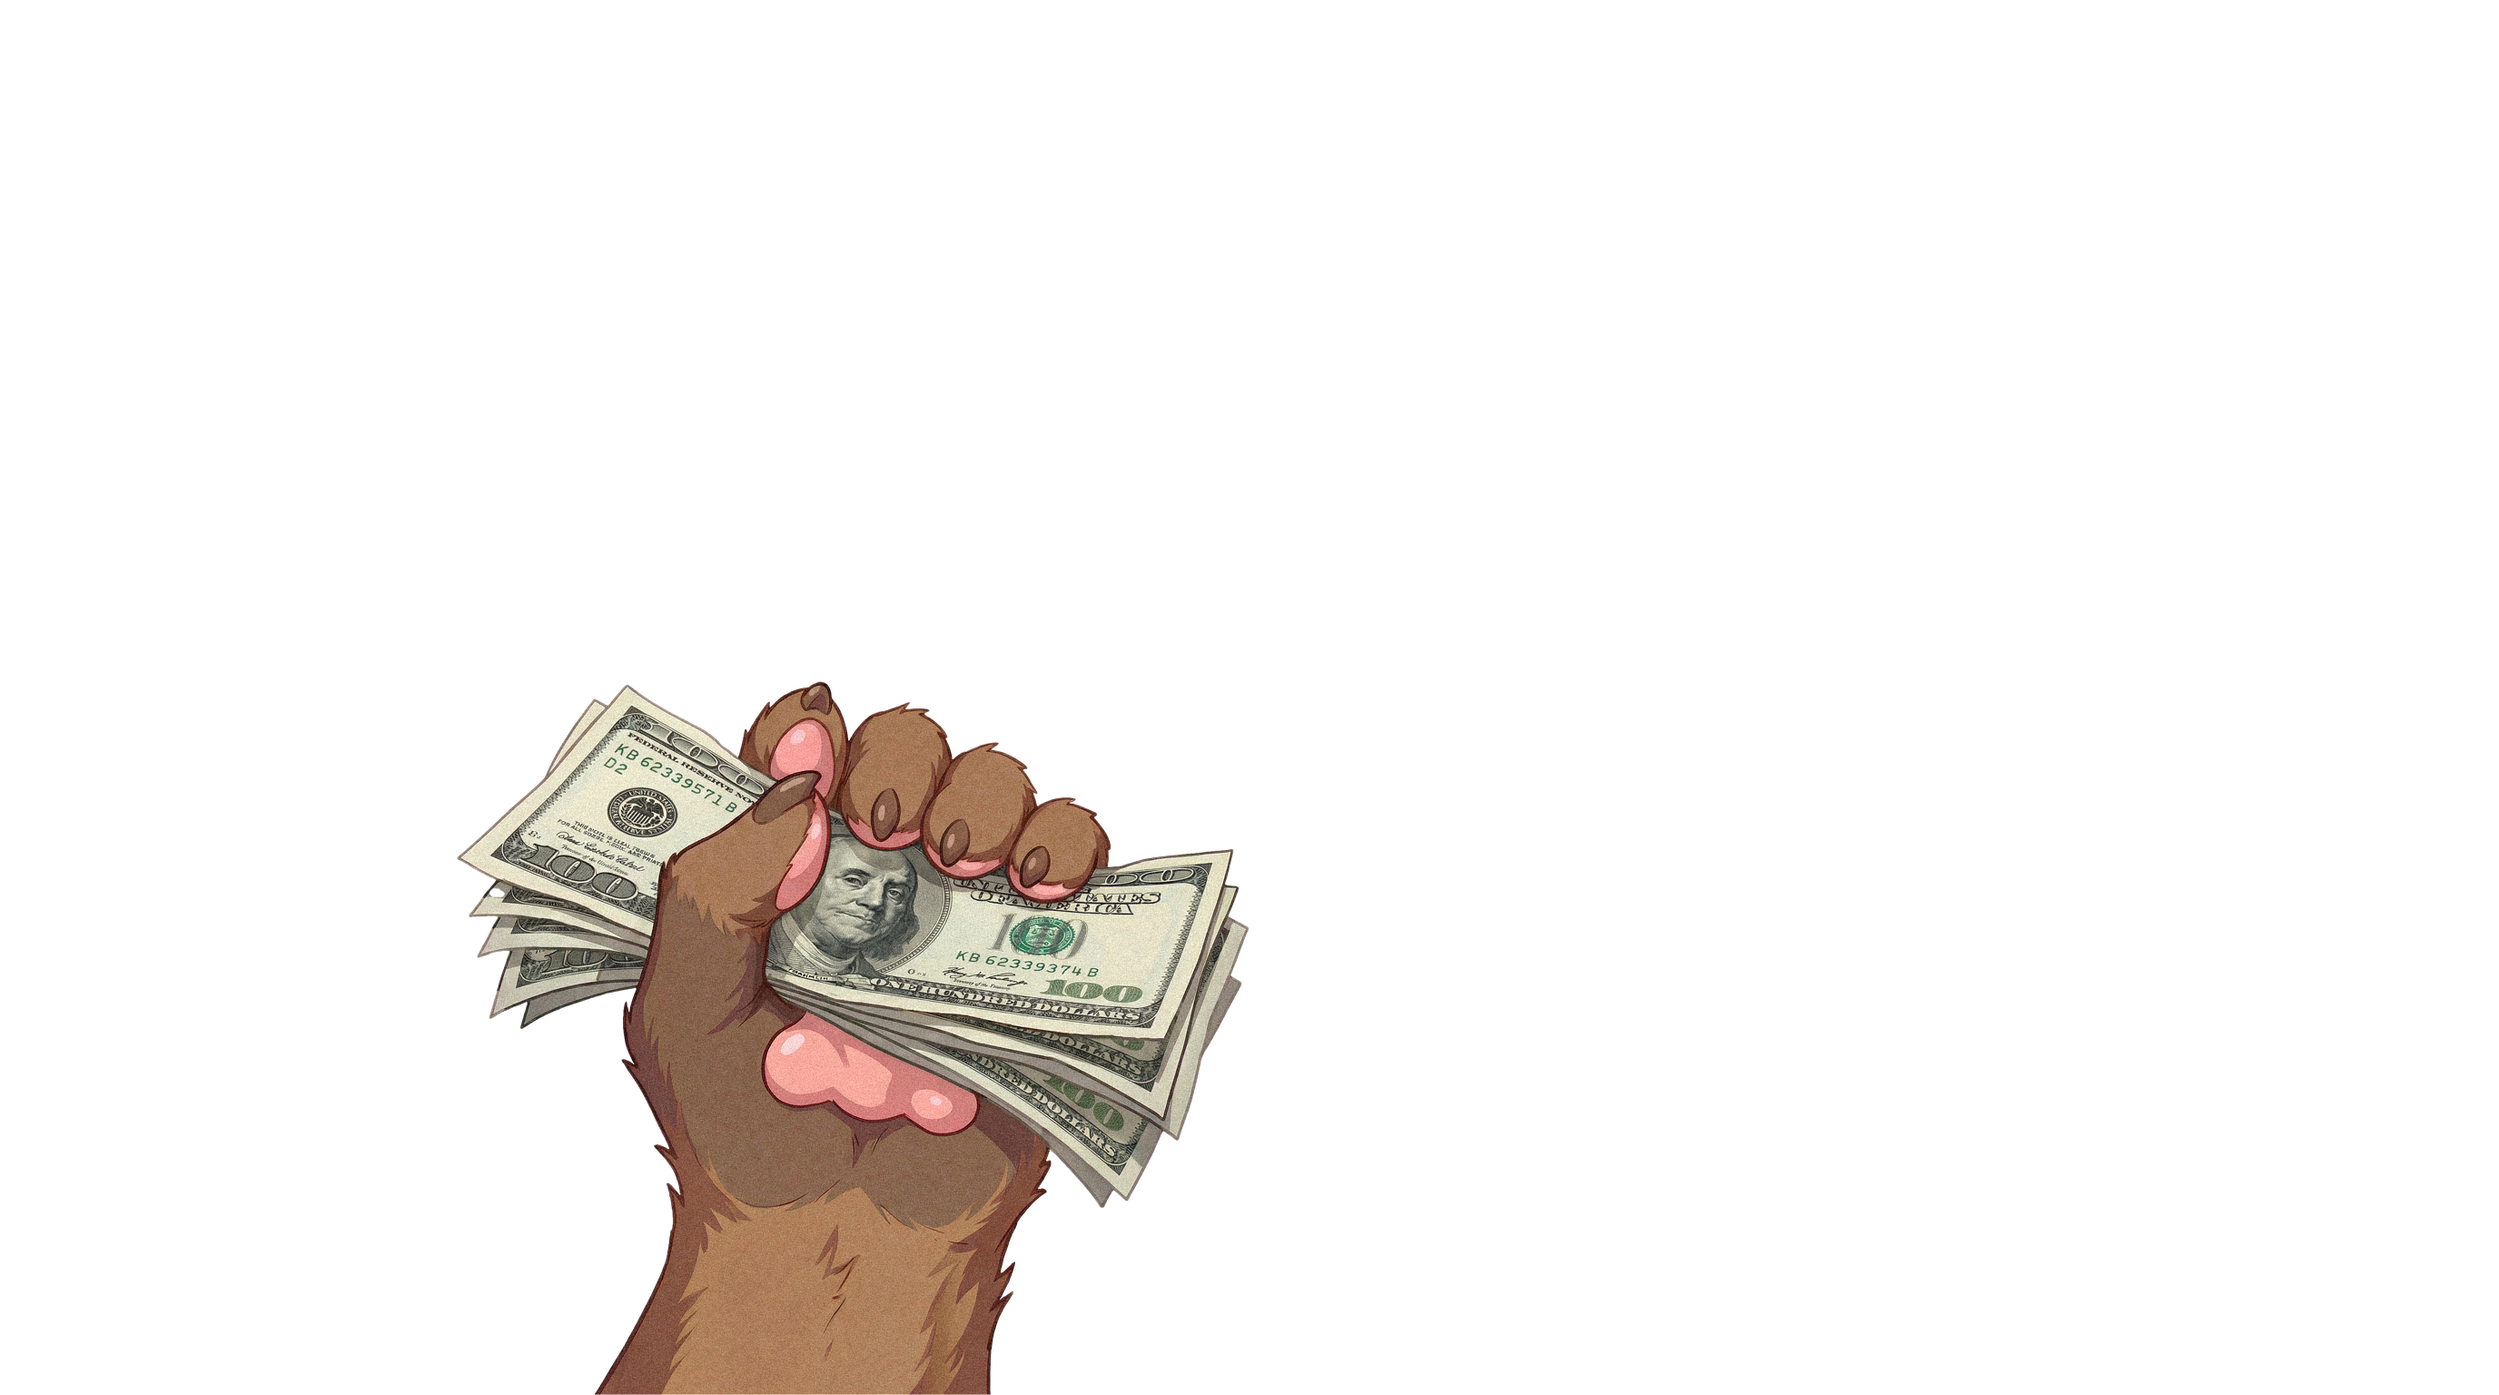
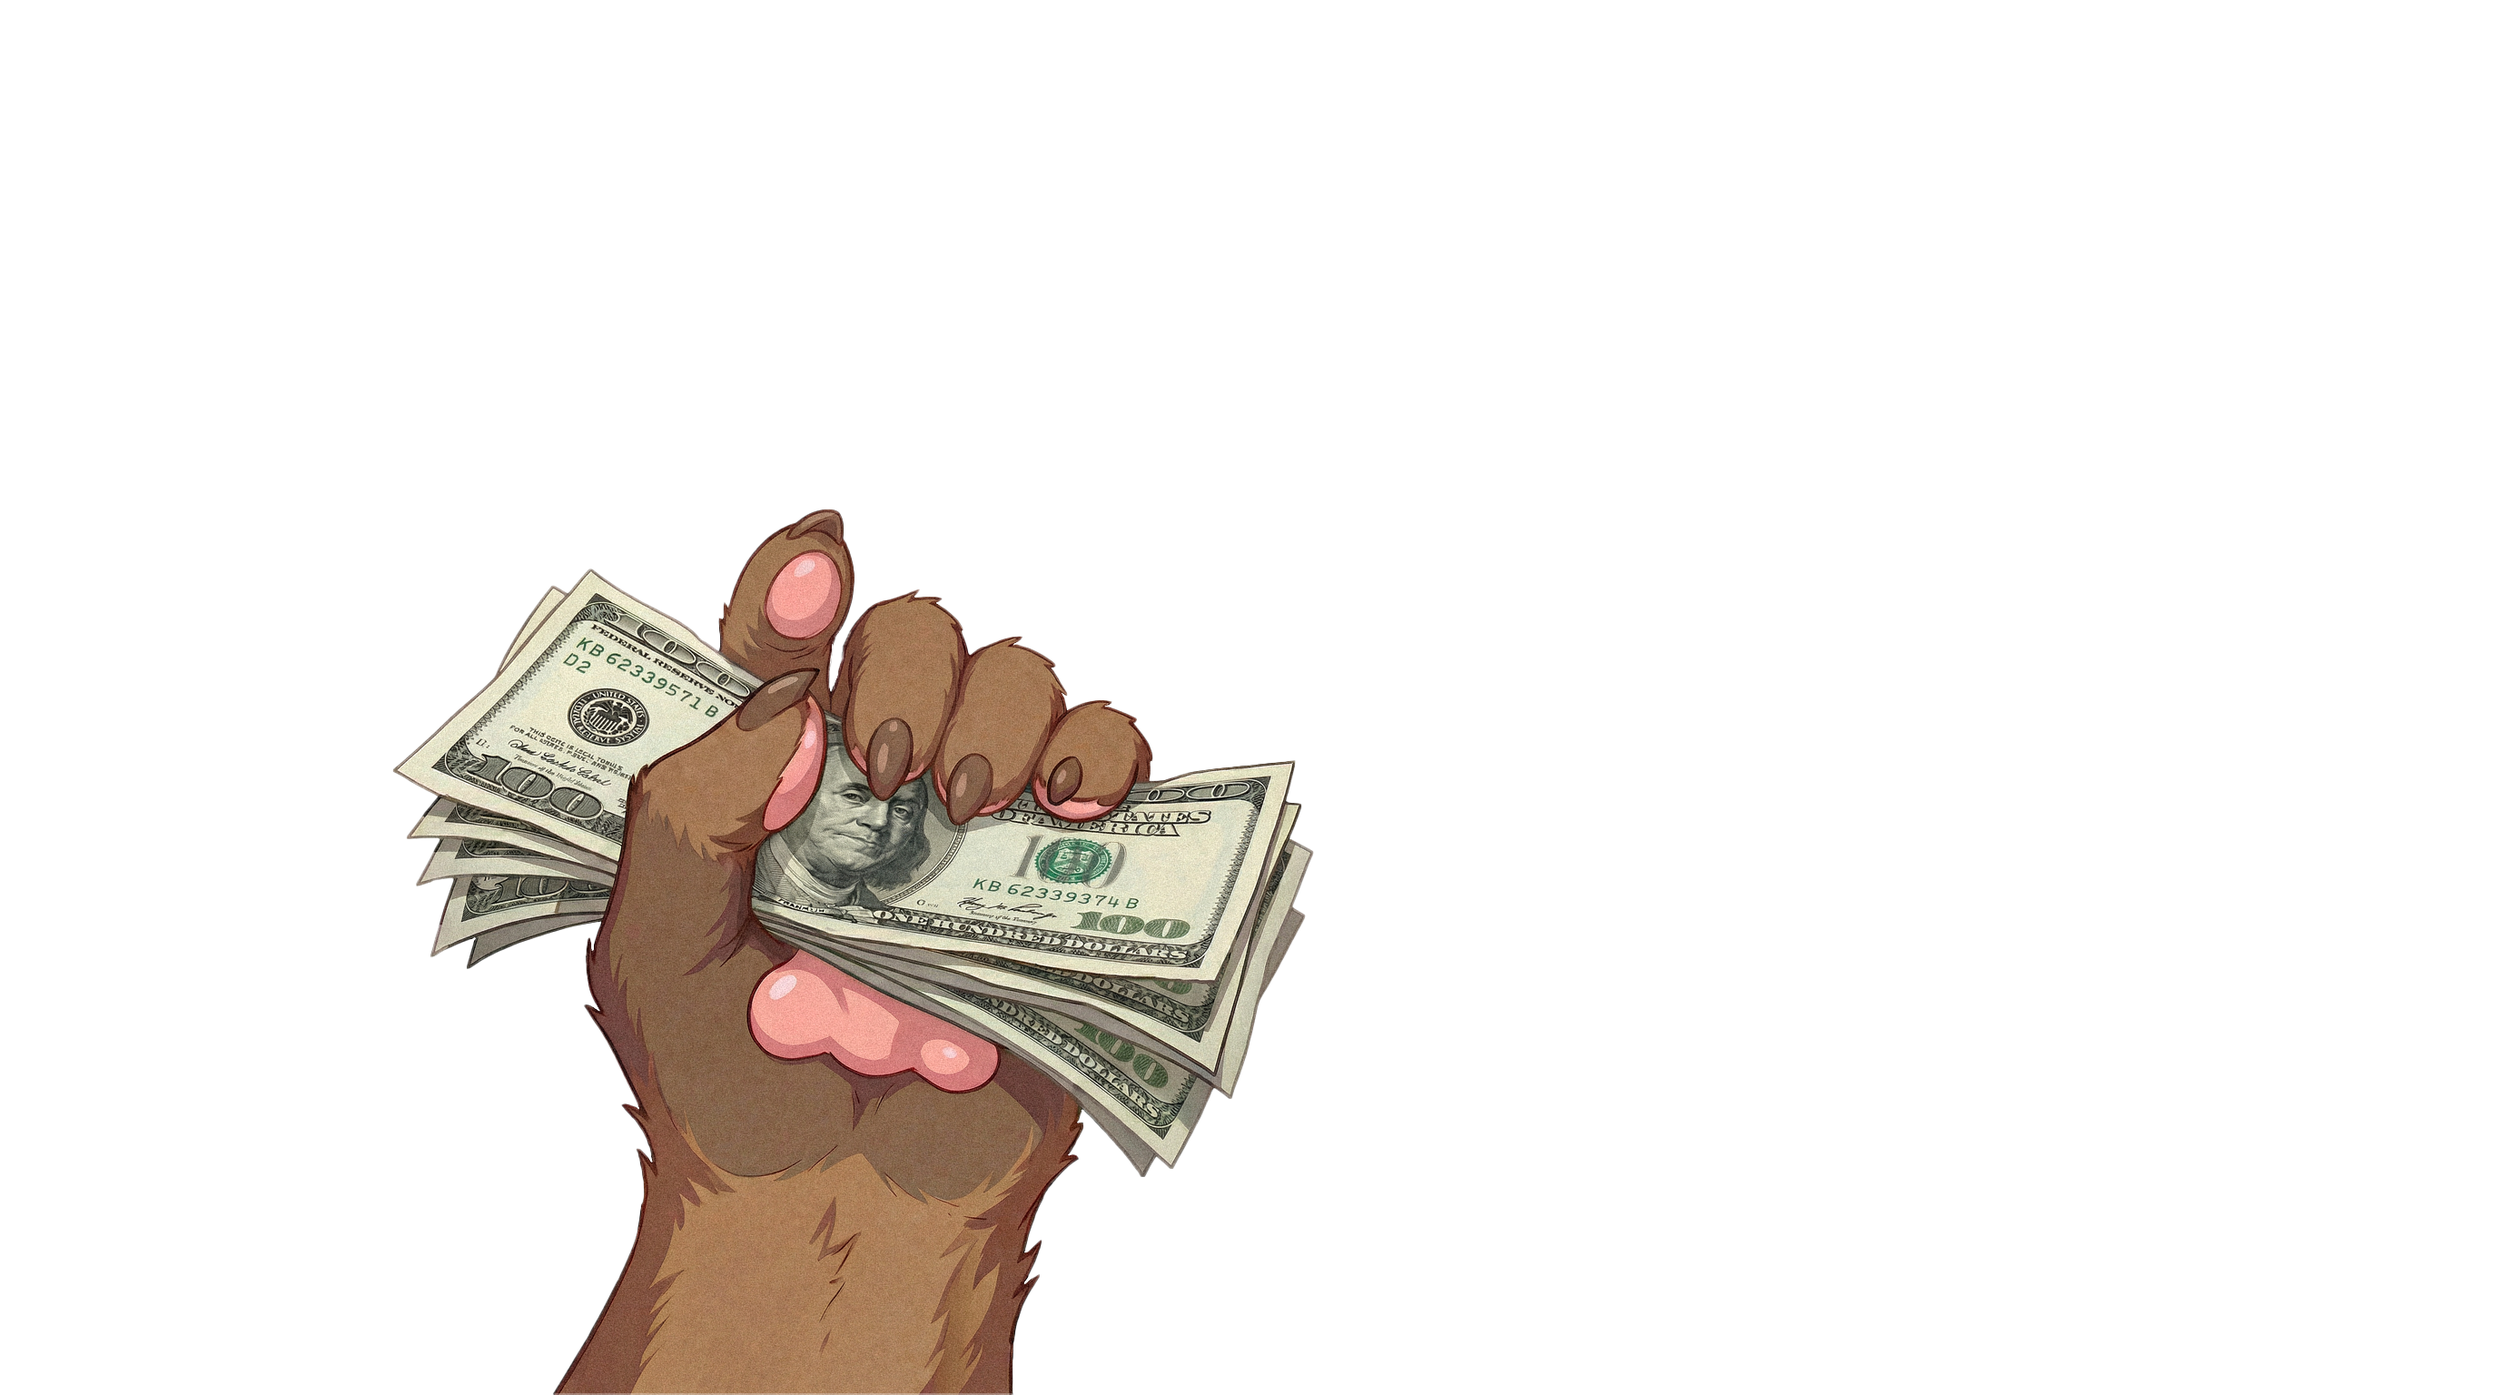
Add files via upload

Changed region(s): [[0.1562, 0.3438, 0.5312, 1.0]]

diff --git a/src/js/main.js b/src/js/main.js
@@ -20,6 +20,7 @@ console.log('[BOOT] main.js module active');
             '#map-overlay',
             '#ooxx-result',
             '#ooxx-screen',
+            '#money-popup',
             '#to-be-continued-screen',
             '#title-screen'
         ].join(', ');
@@ -222,6 +223,10 @@ console.log('[BOOT] main.js module active');
         let isSpeaking = false;
         let isAngry = false;
         let isHappy = false;
+        let isMoneyIntermission = false;
+        let skipMoneyResolveClick = false;
+        let pendingPostChoiceAction = null;
+        let moneyIntermissionDone = null;
         let blinkTimeout = null;
         let speakInterval = null;
 
@@ -232,6 +237,7 @@ console.log('[BOOT] main.js module active');
         const charHappy = document.getElementById('char-head-happy');
         const moneyPopupEl = document.getElementById('money-popup');
         const toBeContinuedEl = document.getElementById('to-be-continued-screen');
+        const gameContainerEl = document.getElementById('game-container');
 
         const dialogueText = document.getElementById('dialogue-text');
         const speakerPlate = document.getElementById('speaker-plate');
@@ -438,6 +444,32 @@ console.log('[BOOT] main.js module active');
             }
         }
 
+        function runChoiceResponse(responseText, actionId, speakerName) {
+            speakerPlate.textContent = speakerName;
+            dialogueText.textContent = '';
+            charIndex = 0;
+            setTyping(true);
+            clearInterval(typeTimer);
+
+            typeTimer = setInterval(() => {
+                if (charIndex < responseText.length) {
+                    dialogueText.textContent += responseText[charIndex++];
+                    playTap();
+                } else {
+                    clearInterval(typeTimer);
+                    setTyping(false);
+                    if (responseText) {
+                        dialogueHistory.push({ speaker: speakerName, text: responseText, isChoice: false });
+                    }
+                    if (actionId === 'show_to_be_continued') {
+                        pendingPostChoiceAction = actionId;
+                        return;
+                    }
+                    dispatchAction(actionId, { delayMs: 1000 });
+                }
+            }, textSpeedMs);
+        }
+
         function pickChoice(idx) {
             inChoiceMode = false;
             dialogueArea.classList.remove('choices-mode');
@@ -465,28 +497,17 @@ console.log('[BOOT] main.js module active');
 
             isAngry = actionId === 'trigger_death';
             isHappy = actionId === 'show_to_be_continued';
-            if (isHappy) showMoneyPopup();
-            else hideMoneyPopup();
+            if (!isHappy) hideMoneyPopup();
             setCharState(isHappy ? 'happy' : (isAngry ? 'angry' : 'idle'));
-            speakerPlate.textContent = t.speaker;
-            dialogueText.textContent = '';
-            charIndex = 0;
-            setTyping(true);
-            clearInterval(typeTimer);
+            if (actionId === 'show_to_be_continued') {
+                setTyping(false);
+                beginMoneyIntermission(() => {
+                    runChoiceResponse(responseText, actionId, t.speaker);
+                });
+                return;
+            }
 
-            typeTimer = setInterval(() => {
-                if (charIndex < responseText.length) {
-                    dialogueText.textContent += responseText[charIndex++];
-                    playTap();
-                } else {
-                    clearInterval(typeTimer);
-                    setTyping(false);
-                    if (responseText) {
-                        dialogueHistory.push({ speaker: t.speaker, text: responseText, isChoice: false });
-                    }
-                    dispatchAction(actionId, { delayMs: 1000 });
-                }
-            }, textSpeedMs);
+            runChoiceResponse(responseText, actionId, t.speaker);
         }
 
         // OOXX mini-game
@@ -833,7 +854,7 @@ console.log('[BOOT] main.js module active');
         function showMoneyPopup() {
             if (!moneyPopupEl) return;
             moneyPopupEl.classList.remove('visible');
-            // Force restart animation for repeated route entries.
+            // Force restart fade-in for repeated route entries.
             void moneyPopupEl.offsetWidth;
             moneyPopupEl.classList.add('visible');
         }
@@ -843,10 +864,58 @@ console.log('[BOOT] main.js module active');
             moneyPopupEl.classList.remove('visible');
         }
 
+        function setMobileMoneyFocus(enabled) {
+            if (!gameContainerEl) return;
+            const isMobileLike = window.matchMedia && window.matchMedia('(hover: none) and (pointer: coarse)').matches;
+            if (!isMobileLike) {
+                gameContainerEl.classList.remove('money-focus-mobile');
+                return;
+            }
+            gameContainerEl.classList.toggle('money-focus-mobile', Boolean(enabled));
+        }
+
+        function beginMoneyIntermission(onDone) {
+            isMoneyIntermission = true;
+            skipMoneyResolveClick = true;
+            moneyIntermissionDone = typeof onDone === 'function' ? onDone : null;
+            dialogueArea.classList.add('money-hidden');
+            showMoneyPopup();
+            setMobileMoneyFocus(true);
+        }
+
+        function resolveMoneyIntermission() {
+            if (!isMoneyIntermission) return;
+            isMoneyIntermission = false;
+            const resume = moneyIntermissionDone;
+            moneyIntermissionDone = null;
+            skipMoneyResolveClick = false;
+
+            hideMoneyPopup();
+            setMobileMoneyFocus(false);
+
+            setTimeout(() => {
+                dialogueArea.classList.remove('money-hidden');
+                if (typeof resume === 'function') resume();
+            }, 180);
+        }
+
+        function resetMoneyIntermission() {
+            isMoneyIntermission = false;
+            skipMoneyResolveClick = false;
+            pendingPostChoiceAction = null;
+            moneyIntermissionDone = null;
+            dialogueArea.classList.remove('money-hidden');
+            setMobileMoneyFocus(false);
+            hideMoneyPopup();
+        }
+
         function showToBeContinued() {
             isDeathSequence = true;
             setTyping(false);
-            hideMoneyPopup();
+            resetMoneyIntermission();
+            const tbcText = l10n[currentLang]?.ui?.toBeContinued || 'To Be Continued...';
+            const tbcTextEl = document.getElementById('to-be-continued-text');
+            if (tbcTextEl) tbcTextEl.textContent = tbcText;
             if (toBeContinuedEl) {
                 toBeContinuedEl.classList.remove('hidden');
             }
@@ -854,8 +923,22 @@ console.log('[BOOT] main.js module active');
 
         // Click anywhere to advance
         document.getElementById('game-container').addEventListener('click', function (e) {
+            if (isMoneyIntermission) {
+                if (skipMoneyResolveClick) {
+                    skipMoneyResolveClick = false;
+                    return;
+                }
+                resolveMoneyIntermission();
+                return;
+            }
             const targetEl = e.target instanceof Element ? e.target : null;
             if (targetEl && targetEl.closest(NO_ADVANCE_SELECTORS)) return;
+            if (pendingPostChoiceAction && !isTyping && !isMoneyIntermission) {
+                const actionId = pendingPostChoiceAction;
+                pendingPostChoiceAction = null;
+                dispatchAction(actionId, { delayMs: 0 });
+                return;
+            }
             const r = document.createElement('div');
             r.className = 'ripple';
             const rect = this.getBoundingClientRect();
@@ -874,6 +957,19 @@ console.log('[BOOT] main.js module active');
             // If we've started the sequence but the text hasn't shown up yet, fast-forward it
             this.classList.add('show-text');
         });
+        if (toBeContinuedEl) {
+            toBeContinuedEl.addEventListener('click', function (e) {
+                if (toBeContinuedEl.classList.contains('hidden')) return;
+                e.stopPropagation();
+                returnToTitle(toBeContinuedEl, () => {
+                    const bgm = document.getElementById('bgm');
+                    if (bgm) {
+                        bgm.pause();
+                        bgm.currentTime = 0;
+                    }
+                });
+            });
+        }
 
         // Settings
         const overlay = document.getElementById('settings-overlay');
@@ -921,9 +1017,12 @@ console.log('[BOOT] main.js module active');
             document.querySelector('.lang-ui-gameTitle').textContent = ui.gameTitle;
             document.getElementById('lang-btn-gear').textContent = ui.gearBtn;
             document.getElementById('lang-ui-chapTitle').textContent = ui.chapTitle;
+            speakerPlate.textContent = t.speaker;
 
             document.getElementById('start-btn').textContent = t.startBtn;
             document.getElementById('death-text').textContent = t.deathText;
+            const tbcTextEl = document.getElementById('to-be-continued-text');
+            if (tbcTextEl) tbcTextEl.textContent = ui.toBeContinued || 'To Be Continued...';
 
             document.getElementById('lang-ui-social').textContent = ui.social;
             document.getElementById('lang-ui-audio').textContent = audioMuted ? ui.audioOff : ui.audioOn;
@@ -1248,6 +1347,7 @@ console.log('[BOOT] main.js module active');
             isDeathSequence = false;
             isAngry = false;
             isHappy = false;
+            pendingPostChoiceAction = null;
             dialogueHistory.length = 0;
 
             // Reset UI elements that may be dirty
@@ -1265,7 +1365,7 @@ console.log('[BOOT] main.js module active');
             const ooxxResultEl = document.getElementById('ooxx-result');
             ooxxResultEl.classList.add('hidden');
             ooxxResultEl.classList.remove('show-text');
-            hideMoneyPopup();
+            resetMoneyIntermission();
             if (toBeContinuedEl) toBeContinuedEl.classList.add('hidden');
 
             // Fade out BG.jpg splash as character fades in
@@ -1302,9 +1402,10 @@ console.log('[BOOT] main.js module active');
             isDeathSequence = false;
             isAngry = false;
             isHappy = false;
+            pendingPostChoiceAction = null;
             setCharState('idle'); // revert character to idle
             dialogueText.textContent = ''; // clear text
-            hideMoneyPopup();
+            resetMoneyIntermission();
             if (toBeContinuedEl) toBeContinuedEl.classList.add('hidden');
             cancelOOXXTransitions('returnToTitle reset');
             if (storyEngine) {

diff --git a/index.html b/index.html
@@ -226,6 +226,18 @@
             opacity: 1;
         }
 
+        @media (hover: none) and (pointer: coarse) {
+            #character-container,
+            #money-popup {
+                transition: transform 0.22s ease-out, opacity 0.15s ease-out;
+            }
+
+            #game-container.money-focus-mobile #character-container,
+            #game-container.money-focus-mobile #money-popup {
+                transform: translateX(-9vw);
+            }
+        }
+
         @keyframes tailSway {
             from {
                 transform: rotate(-2.5deg);
@@ -460,6 +472,12 @@
             right: 0;
             height: 160px;
             z-index: 20;
+            transition: opacity 0.15s ease-out;
+        }
+
+        #dialogue-area.money-hidden {
+            opacity: 0;
+            pointer-events: none;
         }
 
         /* Glass backdrop ??warm semi-transparent */
@@ -520,7 +538,7 @@
 
         /* Inline typing cursor ??only visible while .typing class is present */
         #dialogue-text.typing::after {
-            content: '??;
+            content: '|';
             color: #f0ae40;
             text-shadow: 0 0 10px rgba(220, 140, 20, 0.95);
             animation: cursorBlink 0.65s steps(1) infinite;
@@ -1498,9 +1516,9 @@
         <!-- Dialogue area -->
         <div id="dialogue-area">
             <div id="dialogue-box">
-                <div id="speaker-plate">??????</div>
+                <div id="speaker-plate">&#25552;&#29246;&#29392;</div>
                 <div id="dialogue-text"></div>
-                <div id="next-indicator">??</div>
+                <div id="next-indicator">&#9662;</div>
 
                 <!-- Bottom controls -->
                 <div id="controls-bar">
@@ -1554,8 +1572,8 @@
                 <div class="setting-row">
                     <span class="setting-label" id="lang-ui-lang">???????????</span>
                     <div class="setting-toggle">
-                        <button class="tog-btn on" id="tog-lang-tw" onclick="setLanguage('tw')">?????????????????</button>
-                        <button class="tog-btn" id="tog-lang-jp" onclick="setLanguage('jp')">????????????????????</button>
+                        <button class="tog-btn on" id="tog-lang-tw" onclick="setLanguage('tw')">&#32321;&#20013;</button>
+                        <button class="tog-btn" id="tog-lang-jp" onclick="setLanguage('jp')">&#26085;&#26412;&#35486;</button>
                         <button class="tog-btn" id="tog-lang-en" onclick="setLanguage('en')">EN</button>
                     </div>
                 </div>
